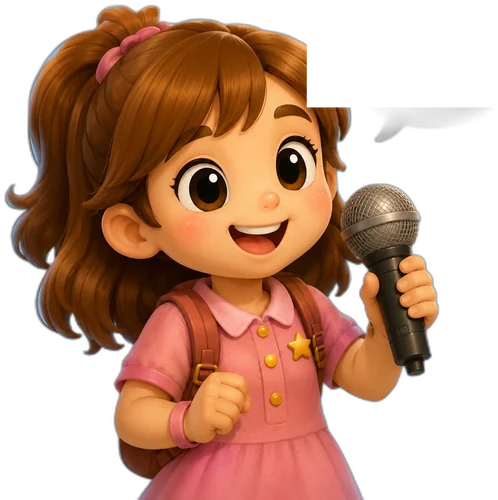
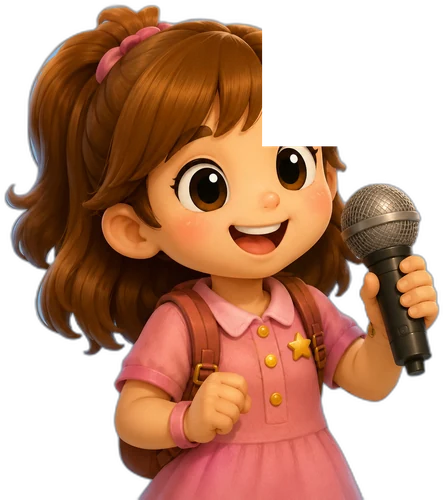
guide回饋修正:艾莉一般姿勢放大;Speak舊泡泡徹底擦除(單一Hello);名字/副標/標籤加外框字(WebkitTextStroke);泡泡統一移Vega上方不擋人/框;太空船alpha-matting重去背保留尾巴+真火焰(移除CSS假火焰);3 2 1 GO外框字+配色定位;多頁本機驗證

diff --git a/src/app/guide/GuideSlides.tsx b/src/app/guide/GuideSlides.tsx
@@ -35,11 +35,11 @@ const REWARDS = [
 
 // slide 1「Welcome」：中間站 5 個玩家角色（人類），混一些 happy 表情
 const PLAYERS = [
-  { slug: 'elly', pose: '-happy', cx: 30, sc: 1.22 },
+  { slug: 'elly', pose: '',       cx: 30, sc: 1 },
   { slug: 'sky',  pose: '',       cx: 41, sc: 1 },
-  { slug: 'coco', pose: '',       cx: 52, sc: 1 },
+  { slug: 'coco', pose: '-happy', cx: 52, sc: 1.18 },
   { slug: 'leo',  pose: '',       cx: 63, sc: 1 },
-  { slug: 'vera', pose: '-happy', cx: 74, sc: 1.15 },
+  { slug: 'vera', pose: '-happy', cx: 74, sc: 1.18 },
 ];
 
 export default function GuideSlides() {
@@ -140,12 +140,12 @@ export default function GuideSlides() {
                     </div>
                   </div>
                   {/* 底部副標 */}
-                  <p className="absolute left-1/2 -translate-x-1/2 text-center font-bold text-amber-900" style={{ bottom: '5%', fontSize: 'clamp(10px,1.5vw,20px)', textShadow: '0 1px 2px rgba(255,255,255,.5)' }}>
-                    每堂課只要 <span className="text-orange-500">5–10 分鐘</span>，學習超好玩！
+                  <p className="absolute left-1/2 -translate-x-1/2 text-center font-black text-white whitespace-nowrap" style={{ bottom: '5%', fontSize: 'clamp(11px,1.6vw,22px)', WebkitTextStroke: '3px #6b3e12', paintOrder: 'stroke fill' }}>
+                    每堂課只要 <span className="text-yellow-300">5–10 分鐘</span>，學習超好玩！
                   </p>
                   {/* 右下 Miss Vega 講話 + 泡泡（泡泡在 Vega 左下、較小不擋人） */}
-                  <img src="/characters/vega/vega-talk.png" alt="Vega" className="absolute object-contain object-bottom drop-shadow-[0_6px_8px_rgba(60,40,90,0.35)]" style={{ right: '1%', bottom: '2%', width: '8.5%' }} />
-                  <div className="absolute" style={{ right: '8.5%', bottom: '9%', width: '10%' }}>
+                  <img src="/characters/vega/vega-talk.png" alt="Vega" className="absolute object-contain object-bottom drop-shadow-[0_6px_8px_rgba(60,40,90,0.35)]" style={{ right: '1%', bottom: '1%', width: '7.5%' }} />
+                  <div className="absolute" style={{ right: '1%', bottom: '24%', width: '9%' }}>
                     <div className="relative">
                       <img src="/images/guide/intro-conversation1.webp" alt="" className="w-full" />
                       <p className="absolute inset-0 flex items-center justify-center text-center font-black text-amber-800 px-[13%] pb-[8%]" style={{ fontSize: 'clamp(8px,1vw,14px)' }}>一起來<br />學習吧！</p>
@@ -167,16 +167,16 @@ export default function GuideSlides() {
                   {/* 名字 + 特質（框底色條上） */}
                   {FRIENDS.map(f => (
                     <div key={`t-${f.key}`} className="absolute text-center leading-tight" style={{ left: `${f.cx}%`, top: '68%', width: '15%', transform: 'translateX(-50%)' }}>
-                      <p className="text-white font-black" style={{ fontSize: 'clamp(12px,1.5vw,20px)', textShadow: '0 1px 2px rgba(80,50,20,.35)' }}>{f.name}</p>
-                      <p className="text-white/95 font-bold" style={{ fontSize: 'clamp(9px,1.1vw,14px)' }}>{f.trait}</p>
+                      <p className="text-white font-black" style={{ fontSize: 'clamp(12px,1.5vw,20px)', WebkitTextStroke: '2.5px #5a3410', paintOrder: 'stroke fill' }}>{f.name}</p>
+                      <p className="text-white font-black" style={{ fontSize: 'clamp(9px,1.1vw,14px)', WebkitTextStroke: '1.8px #5a3410', paintOrder: 'stroke fill' }}>{f.trait}</p>
                     </div>
                   ))}
-                  {/* Vega 講話（右下角） */}
+                  {/* Vega 講話（右下角，較小） */}
                   <img src="/characters/vega/vega-talk.png" alt="Vega"
                     className="absolute object-contain object-bottom drop-shadow-[0_6px_8px_rgba(60,40,90,0.35)]"
-                    style={{ right: '1%', bottom: '1%', width: '8.5%' }} />
-                  {/* 對話泡泡（Vega 左下、較小不擋人） */}
-                  <div className="absolute" style={{ right: '8.5%', bottom: '9%', width: '10%' }}>
+                    style={{ right: '1%', bottom: '1%', width: '7.5%' }} />
+                  {/* 對話泡泡（Vega 正上方 far-right，不進 Ruby 框） */}
+                  <div className="absolute" style={{ right: '1%', bottom: '24%', width: '9%' }}>
                     <div className="relative">
                       <img src="/images/guide/intro-conversation.webp" alt="" className="w-full" />
                       <p className="absolute inset-0 flex items-center justify-center text-center font-black text-pink-500 px-[15%] pb-[8%]" style={{ fontSize: 'clamp(9px,1.1vw,15px)' }}>
@@ -205,15 +205,15 @@ export default function GuideSlides() {
                   {REWARDS.map(r => (
                     <div key={`l-${r.img}`} className="absolute text-center leading-tight" style={{ left: `${r.cx}%`, top: '60%', width: '15%', transform: 'translateX(-50%)' }}>
                       <span className={`${r.pill} inline-block text-white font-black px-3 py-0.5 rounded-full shadow`} style={{ fontSize: 'clamp(9px,1.2vw,16px)' }}>{r.en}</span>
-                      <p className="text-amber-900 font-bold mt-0.5" style={{ fontSize: 'clamp(9px,1.1vw,14px)', textShadow: '0 1px 2px rgba(255,255,255,.6)' }}>{r.zh}</p>
+                      <p className="text-white font-black mt-0.5" style={{ fontSize: 'clamp(9px,1.1vw,14px)', WebkitTextStroke: '1.8px #5a3410', paintOrder: 'stroke fill' }}>{r.zh}</p>
                     </div>
                   ))}
-                  <p className="absolute left-1/2 -translate-x-1/2 text-center font-bold text-amber-900" style={{ bottom: '6%', fontSize: 'clamp(10px,1.5vw,20px)', textShadow: '0 1px 2px rgba(255,255,255,.6)' }}>
-                    完成課程、收集獎勵，成為<span className="text-orange-500">小冠軍</span> 🏆
+                  <p className="absolute left-1/2 -translate-x-1/2 text-center font-black text-white whitespace-nowrap" style={{ bottom: '6%', fontSize: 'clamp(11px,1.6vw,22px)', WebkitTextStroke: '3px #6b3e12', paintOrder: 'stroke fill' }}>
+                    完成課程、收集獎勵，成為<span className="text-yellow-300">小冠軍</span> 🏆
                   </p>
                   {/* 右下 Miss Vega 講話 */}
-                  <img src="/characters/vega/vega-talk.png" alt="Vega" className="absolute object-contain object-bottom drop-shadow-[0_6px_8px_rgba(60,40,90,0.35)]" style={{ right: '1%', bottom: '1%', width: '8.5%' }} />
-                  <div className="absolute" style={{ right: '8.5%', bottom: '9%', width: '11%' }}>
+                  <img src="/characters/vega/vega-talk.png" alt="Vega" className="absolute object-contain object-bottom drop-shadow-[0_6px_8px_rgba(60,40,90,0.35)]" style={{ right: '1%', bottom: '1%', width: '7.5%' }} />
+                  <div className="absolute" style={{ right: '1%', bottom: '24%', width: '9%' }}>
                     <div className="relative">
                       <img src="/images/guide/intro-conversation1.webp" alt="" className="w-full" />
                       <p className="absolute inset-0 flex items-center justify-center text-center font-black text-amber-800 px-[13%] pb-[8%]" style={{ fontSize: 'clamp(8px,1vw,14px)' }}>一起收集<br />獎勵吧！</p>
@@ -230,23 +230,18 @@ export default function GuideSlides() {
                     <span className="inline-flex w-8 h-8 sm:w-10 sm:h-10 rounded-full bg-blue-500 text-white font-black items-center justify-center" style={{ fontSize: 'clamp(14px,1.8vw,24px)' }}>5</span>
                     <h2 className="font-black text-blue-600" style={{ fontSize: 'clamp(18px,2.7vw,40px)', textShadow: '0 1px 3px rgba(255,255,255,.6)' }}>Ready?</h2>
                   </div>
-                  {/* 火箭 + 噴射火焰 */}
-                  <div className="absolute animate-float" style={{ left: '3%', top: '26%', width: '44%' }}>
-                    <div className="absolute" style={{ left: '-13%', top: '55%', width: '34%', height: '20%', transform: 'rotate(6deg)' }}>
-                      <div className="ae-flame w-full h-full" style={{ background: 'radial-gradient(ellipse at right, rgba(255,246,160,1) 0%, rgba(255,175,55,0.95) 35%, rgba(255,95,25,0.6) 65%, rgba(255,60,10,0) 100%)', filter: 'blur(2px)', borderRadius: '50%' }} />
-                    </div>
-                    <img src="/images/guide/guide5-ship.webp" alt="" className="w-full relative drop-shadow-[0_10px_18px_rgba(40,30,80,0.35)]" />
-                  </div>
-                  {/* 3 2 1 GO! */}
-                  <div className="absolute text-center leading-[0.95]" style={{ left: '60%', top: '18%' }}>
-                    <div className="font-black text-red-500" style={{ fontSize: 'clamp(20px,3.4vw,52px)', textShadow: '0 2px 4px rgba(255,255,255,.7)' }}>3</div>
-                    <div className="font-black text-orange-500 ml-3" style={{ fontSize: 'clamp(20px,3.4vw,52px)', textShadow: '0 2px 4px rgba(255,255,255,.7)' }}>2</div>
-                    <div className="font-black text-yellow-500 ml-6" style={{ fontSize: 'clamp(20px,3.4vw,52px)', textShadow: '0 2px 4px rgba(255,255,255,.7)' }}>1</div>
-                    <div className="font-black text-blue-600 ml-1" style={{ fontSize: 'clamp(24px,4vw,60px)', textShadow: '0 2px 5px rgba(255,255,255,.8)' }}>GO!</div>
+                  {/* 火箭（圖已含真火焰＋尾巴） */}
+                  <img src="/images/guide/guide5-ship.webp" alt="" className="absolute animate-float drop-shadow-[0_10px_18px_rgba(40,30,80,0.35)]" style={{ left: '1%', top: '27%', width: '48%' }} />
+                  {/* 3 2 1 GO!（外框字，在飛行路徑前方） */}
+                  <div className="absolute leading-[0.9]" style={{ left: '55%', top: '20%' }}>
+                    <div className="font-black text-red-500"    style={{ fontSize: 'clamp(22px,3.6vw,56px)', WebkitTextStroke: '2.5px #fff', paintOrder: 'stroke fill', filter: 'drop-shadow(0 3px 3px rgba(0,0,0,.25))' }}>3</div>
+                    <div className="font-black text-orange-500 ml-5" style={{ fontSize: 'clamp(22px,3.6vw,56px)', WebkitTextStroke: '2.5px #fff', paintOrder: 'stroke fill', filter: 'drop-shadow(0 3px 3px rgba(0,0,0,.25))' }}>2</div>
+                    <div className="font-black text-amber-400 ml-10" style={{ fontSize: 'clamp(22px,3.6vw,56px)', WebkitTextStroke: '2.5px #fff', paintOrder: 'stroke fill', filter: 'drop-shadow(0 3px 3px rgba(0,0,0,.25))' }}>1</div>
+                    <div className="font-black text-blue-600 ml-2 mt-1" style={{ fontSize: 'clamp(28px,4.6vw,72px)', WebkitTextStroke: '3px #fff', paintOrder: 'stroke fill', filter: 'drop-shadow(0 4px 4px rgba(0,0,0,.3))' }}>GO!</div>
                   </div>
                   {/* Miss Vega 右下 + 泡泡 */}
-                  <img src="/characters/vega/vega-talk.png" alt="Vega" className="absolute object-contain object-bottom drop-shadow-[0_6px_8px_rgba(60,40,90,0.35)]" style={{ right: '1%', bottom: '1%', width: '8.5%' }} />
-                  <div className="absolute" style={{ right: '8.5%', bottom: '9%', width: '10%' }}>
+                  <img src="/characters/vega/vega-talk.png" alt="Vega" className="absolute object-contain object-bottom drop-shadow-[0_6px_8px_rgba(60,40,90,0.35)]" style={{ right: '1%', bottom: '1%', width: '7.5%' }} />
+                  <div className="absolute" style={{ right: '1%', bottom: '24%', width: '9%' }}>
                     <div className="relative">
                       <img src="/images/guide/intro-conversation1.webp" alt="" className="w-full" />
                       <p className="absolute inset-0 flex items-center justify-center text-center font-black text-amber-800 px-[12%] pb-[8%]" style={{ fontSize: 'clamp(8px,1vw,14px)' }}>準備好<br />出發囉！</p>
